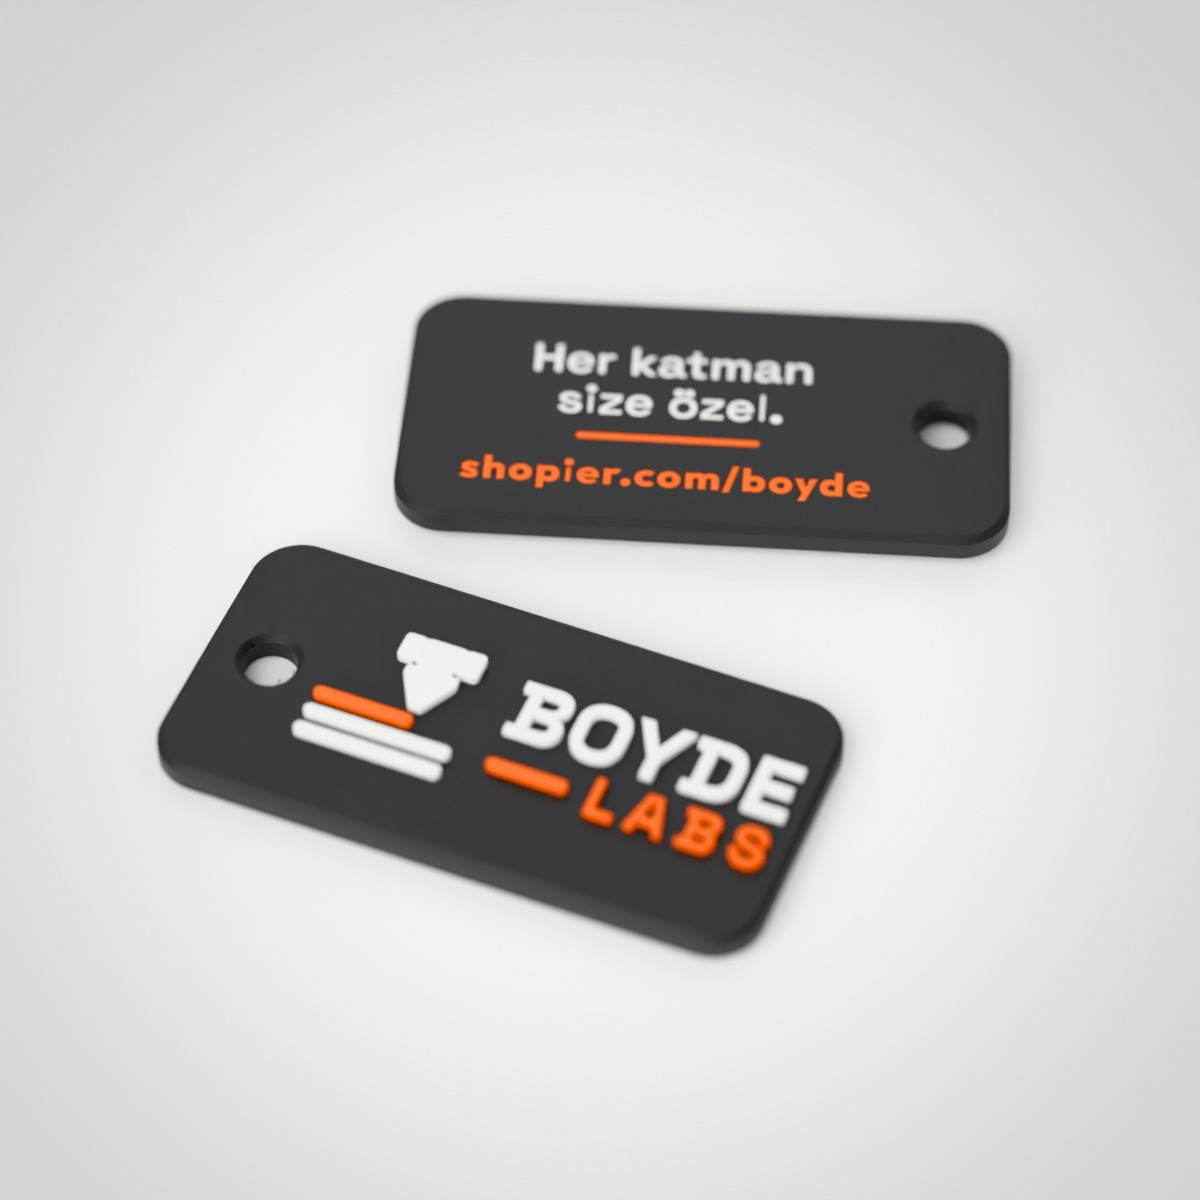
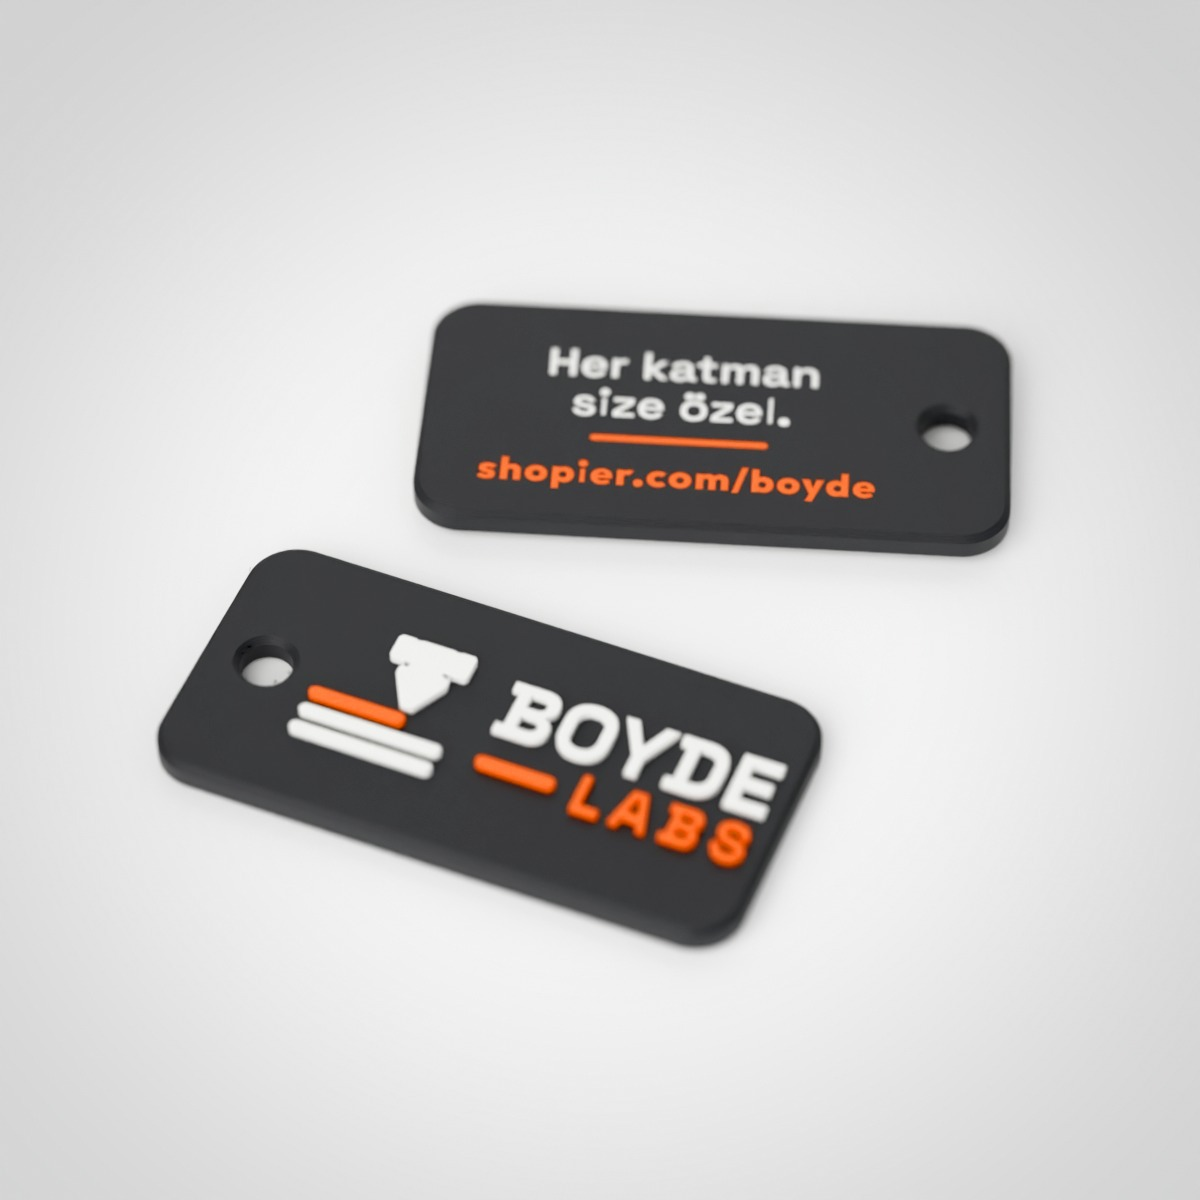
Toptan anahtarlık: halkalı fotoğraflar, kapak, dizi; yerleşim düzeltmesi
Arkalı önlü karede iki adet gerçek kaplama alanına göre 7 mm aralıkla
dizilir (kare ve kesik köşede üst üste biniyordu). Katalogda biçimler
gerçek oranlarıyla.

Claude-Session: https://claude.ai/code/session_01DYSZWrkNx3UmjJ19VqHJCk

diff --git a/scripts/boyde_anahtarlik_katalog.py b/scripts/boyde_anahtarlik_katalog.py
@@ -63,6 +63,21 @@ def model_block(k):
       <p style="margin-top:8px;font-size:12px;line-height:1.5;color:#3b3d42">{k.desc}</p>"""
 
 
+def scale(models, px_mm=2.4):
+    """Beş biçim gerçek oranlarıyla (ön yüz), altlarında kod ve ölçü."""
+    cells = []
+    for k in models:
+        w, h = k.size()
+        img = K.uri(os.path.join(T.SRC, f"{k.key}_on.png"), 600, "PNG")
+        cells.append(f"""<div style="display:flex;flex-direction:column;align-items:center;gap:8px">
+          <img src="{img}" style="width:{w * px_mm:.0f}px;height:{h * px_mm:.0f}px;display:block;
+            filter:drop-shadow(0 6px 10px rgba(0,0,0,.18))">
+          <p style="font-size:11px;font-weight:700;color:#55575c">{k.kod} · {w:.0f} × {h:.0f} mm</p></div>""")
+    return f"""<div style="margin-top:26px"><p class="k">BİÇİMLER · GERÇEK ORANLARIYLA</p>
+      <div style="margin-top:16px;display:flex;justify-content:space-between;align-items:flex-end">{''.join(cells)}
+      </div></div>"""
+
+
 def catalog(P):
     pages, no = [], 1
     models = [fn() for fn in T.MODELS]
@@ -91,7 +106,7 @@ def catalog(P):
                     for a, b, c in ADIM)
     pages.append(page(f"""<p class="k">ARKALI ÖNLÜ</p>
       <h2 class="u" style="margin-top:10px;font-size:28px;line-height:1.15">Önde kabartma,<br>arkada düz yazı.</h2>
-      <img src="{foto('dizi', 1100)}" style="margin-top:20px;width:100%;height:300px;object-fit:cover;
+      <img src="{foto('dizi', 1100)}" style="margin-top:20px;width:100%;height:390px;object-fit:cover;
         border-radius:14px;display:block">
       <div style="margin-top:18px;display:grid;grid-template-columns:1fr 1fr;gap:0 28px">
         <div>{feats}</div><div>{steps}</div></div>
@@ -106,7 +121,7 @@ def catalog(P):
               <p class="u" style="font-size:22px;line-height:1.2">Sizin logonuz,<br>sizin renkleriniz.</p>
               <p style="margin-top:10px;font-size:13px;line-height:1.55;max-width:560px">Beş biçimden birini seçin ya
                 da ölçüyü söyleyin; ön yüze logonuzu kabartma, arka yüze telefonunuzu, adresinizi ya da sloganınızı
-                düz yazı olarak basalım.</p></div>"""
+                düz yazı olarak basalım.</p></div>{scale(models)}"""
         pages.append(page(f"""<div style="display:flex;justify-content:space-between;align-items:flex-end">
           <div><p class="k">MODELLER</p><h2 class="u" style="margin-top:8px;font-size:22px">{chunk[0].kod}{'–' +
           chunk[-1].kod if len(chunk) > 1 else ''}</h2></div>{K.logo("acik", 150, 30)}</div>
@@ -115,13 +130,16 @@ def catalog(P):
 
     pages.append(page(f"""<div style="position:absolute;inset:0;background-image:{BM.stripes_bg(PAPER, .035, 22)}"></div>
       <div style="position:relative">{K.logo("koyu", 260, 52)}</div>
-      <div style="position:absolute;left:48px;right:48px;top:250px">
+      <div style="position:absolute;left:48px;right:48px;top:170px">
         <p class="k">TEKLİF</p>
         <h2 class="u" style="margin-top:12px;font-size:38px;line-height:1.1">Adet arttıkça<br>birim fiyat düşer.</h2>
         <p style="margin-top:18px;font-size:15px;line-height:1.6;color:rgba(244,241,234,.8);max-width:560px">
           Logonuzu, adedi ve arka yüz yazısını gönderin; size özel teklif ve tasarım önizlemesiyle dönelim.</p>
-        <img src="{foto('k01_klasik_halka', 900)}" style="margin-top:28px;width:100%;height:330px;object-fit:cover;
-          border-radius:16px;display:block">
+        <div style="margin-top:28px;display:flex;gap:14px">
+          <img src="{foto('k02_dikey_halka', 700)}" style="flex:1;min-width:0;aspect-ratio:1;object-fit:cover;
+            border-radius:16px;display:block">
+          <img src="{foto('k03_kare_iki', 700)}" style="flex:1;min-width:0;aspect-ratio:1;object-fit:cover;
+            border-radius:16px;display:block"></div>
         <div style="margin-top:28px;display:flex;justify-content:space-between;align-items:flex-end">
           <div><p class="k">WHATSAPP</p><p style="margin-top:6px;font-size:28px;font-weight:700">{K.TEL}</p></div>
           <div style="text-align:right"><p class="k">MAĞAZA</p><p style="margin-top:6px;font-size:20px;

diff --git a/scripts/boyde_anahtarlik_foto.py b/scripts/boyde_anahtarlik_foto.py
@@ -189,7 +189,7 @@ def saturate(path, k=DOYGUNLUK):
     Image.merge("HSV", [Image.fromarray(x.astype(np.uint8)) for x in (h, s, v)]).convert("RGB").save(path, quality=92)
 
 
-def model_shots(key, samples):
+def model_shots(key, samples, views=("iki", "halka")):
     meta, parts = load(key)
     dark = light_body(parts)
     w = max(np.ptp(V[:, 0]) for V, _, _, _ in parts)
@@ -197,11 +197,25 @@ def model_shots(key, samples):
     big = max(w, h)
     # masada: önde ön yüz, arkada ters çevrilmiş (arka yüz)
     sc = studio(dark, samples, F.SIZE)
-    wide = w > 1.4 * h
-    dx, dy = (big * 0.08, big * 0.36) if wide else (big * 0.36, big * 0.12)
-    pts = np.vstack([put(parts, flat(meta, -8, -dx, -dy), "on"),
-                     put(parts, flat(meta, 10, dx, dy, flip=True), "arka")])
-    shoot(sc, pts, 14, 50, 0.74, 4.5, os.path.join(T.FOTO, f"{key}_iki.jpg"), dark)
+    axis, side = (1, 0) if w > 1.4 * h else (0, 1)          # uzunsa üst üste, değilse yan yana dizilir
+    shift = np.zeros(2)
+    shift[side] = big * 0.1
+    Mf, Mb = flat(meta, -8, 0, 0), flat(meta, 10, 0, 0, flip=True)
+    allv = np.vstack([V for V, _, _, _ in parts])
+    lo_f, hi_f = (lambda q: (q.min(), q.max()))((allv @ Mf[:2, :3].T + Mf[:2, 3])[:, axis])
+    lo_b, hi_b = (lambda q: (q.min(), q.max()))((allv @ Mb[:2, :3].T + Mb[:2, 3])[:, axis])
+    move = hi_f - lo_b + 7.0                                 # aralarında 7 mm boşluk
+    Mb[axis, 3] += move
+    Mb[side, 3] += shift[side]
+    Mf[side, 3] -= shift[side]
+    centre = (lo_f + hi_b + move) / 2
+    Mf[axis, 3] -= centre
+    Mb[axis, 3] -= centre
+    pts = np.vstack([put(parts, Mf, "on"), put(parts, Mb, "arka")])
+    if "iki" in views:
+        shoot(sc, pts, 14, 50, 0.74, 4.5, os.path.join(T.FOTO, f"{key}_iki.jpg"), dark)
+    if "halka" not in views:
+        return
     # halkalarda asılı: solda ön yüz, sağda arka yüz
     sc = studio(dark, samples, F.SIZE)
     hx, hy = meta["delik"]
@@ -258,7 +272,8 @@ def lineup(samples, size=(1800, 1000)):
 
 
 def main(args):
-    """args: model anahtarları, kapak, dizi (boşsa hepsi); --ornek N (örnek sayısı), --deneme (küçük çizim)."""
+    """args: model anahtarları, kapak, dizi (boşsa hepsi); --ornek N (örnek sayısı), --deneme (küçük çizim),
+    --yalniz iki|halka (modellerde yalnız o görünüş)."""
     samples = 32
     if "--ornek" in args:
         samples = int(args[args.index("--ornek") + 1])
@@ -266,11 +281,14 @@ def main(args):
     if small:
         F.SIZE = (500, 500)
     os.makedirs(T.FOTO, exist_ok=True)
+    views = ("iki", "halka")
+    if "--yalniz" in args:
+        views = (args.pop(args.index("--yalniz") + 1),)
     keys = [a for a in args if not a.startswith("-") and not a.isdigit()]
     every = not keys
     for key in T.KEYS:
         if every or key in keys:
-            model_shots(key, samples)
+            model_shots(key, samples, views)
     if every or "kapak" in keys:
         cover(samples, (600, 600) if small else (1600, 1600))
     if every or "dizi" in keys:
